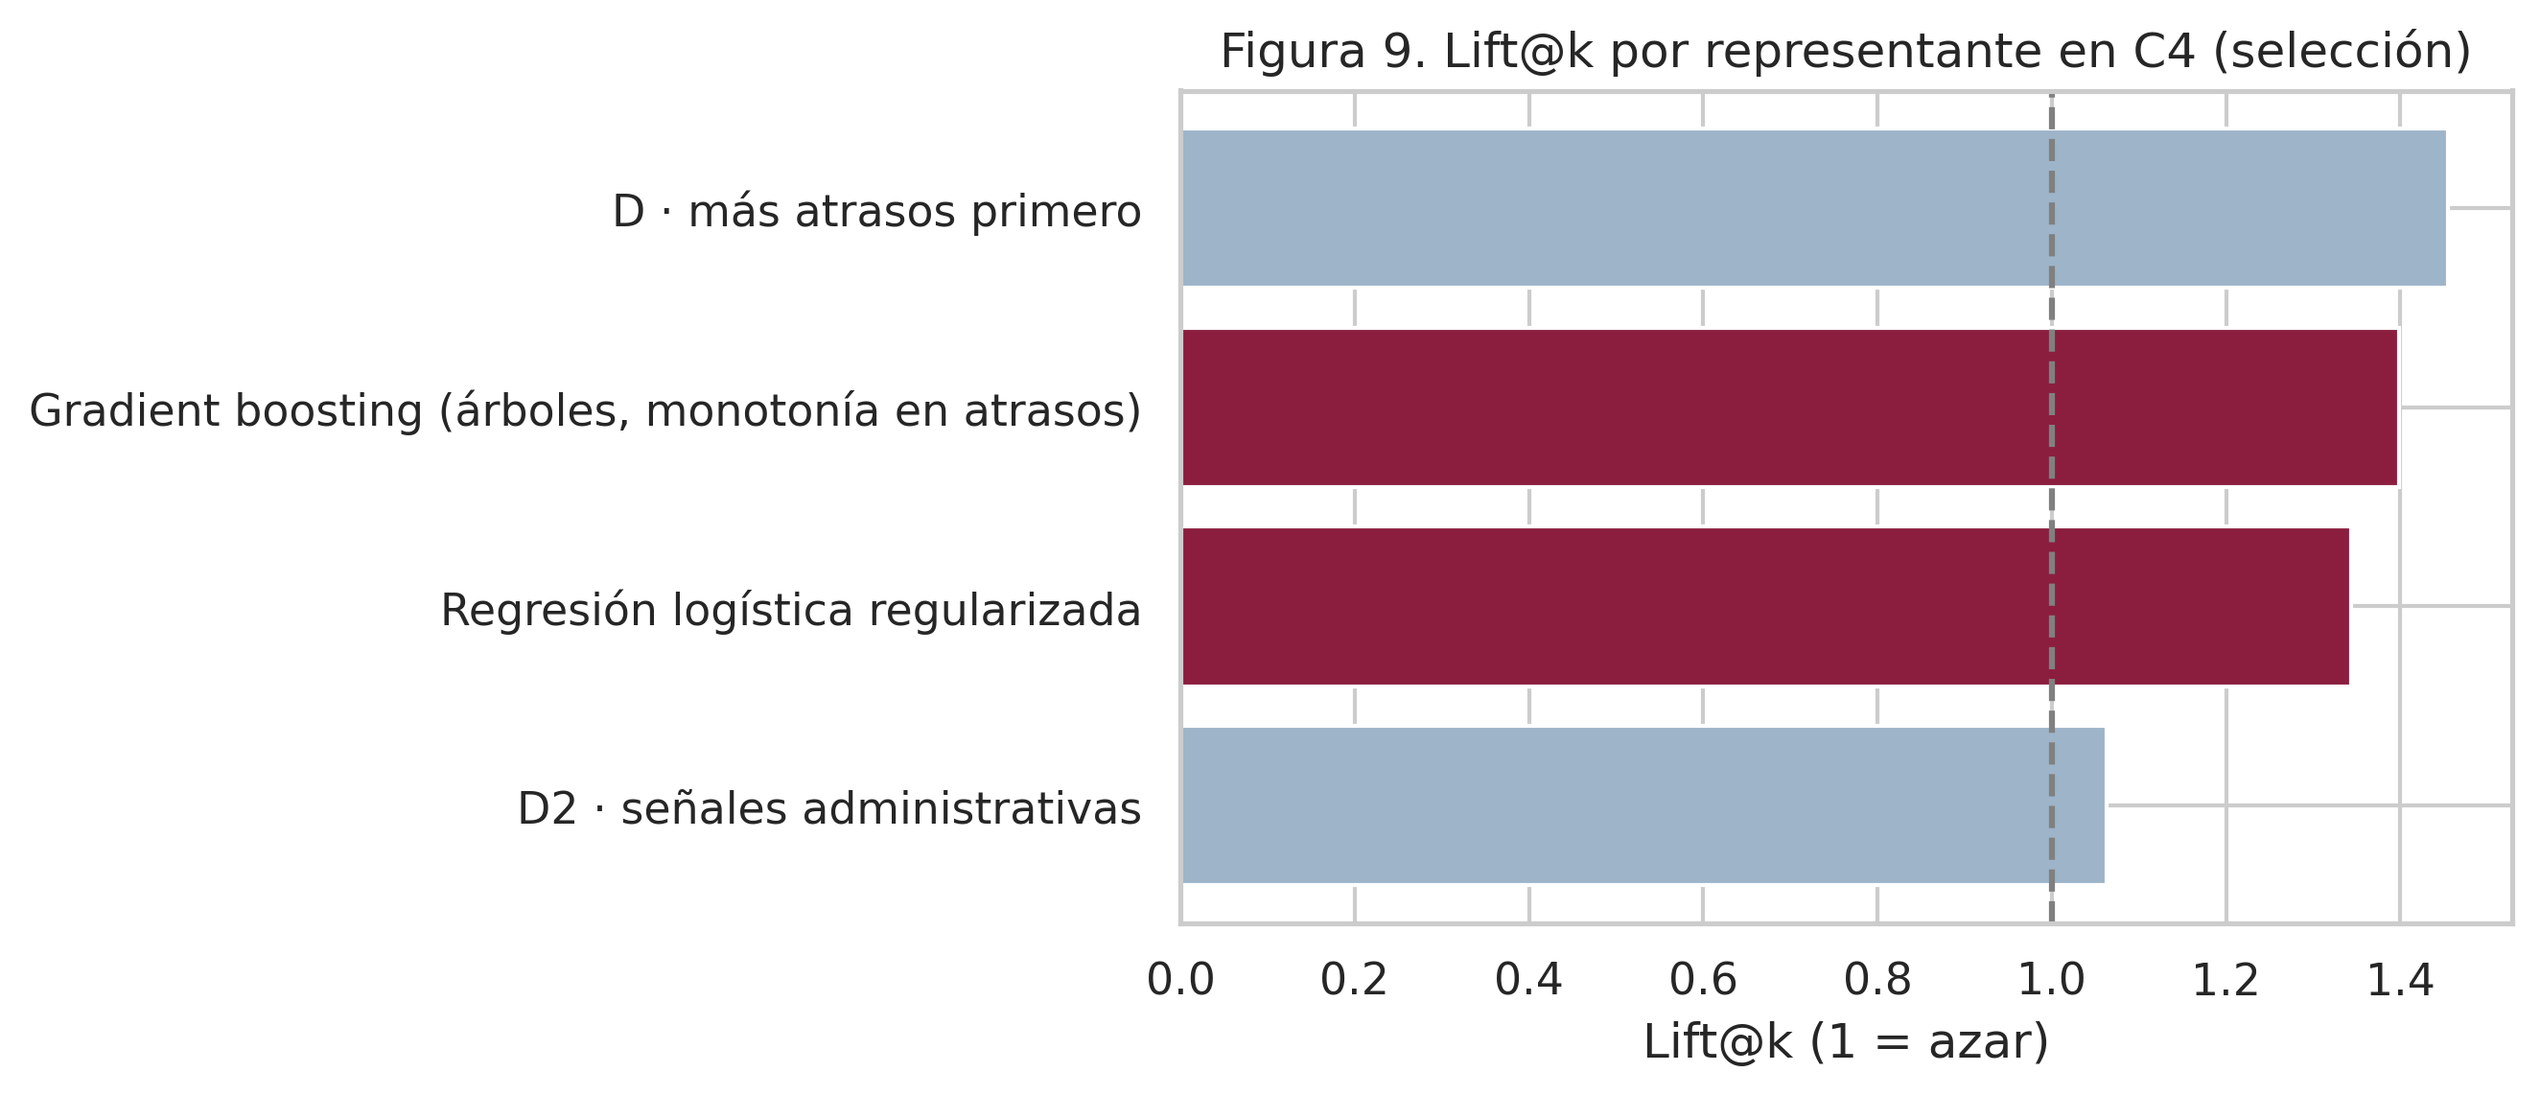
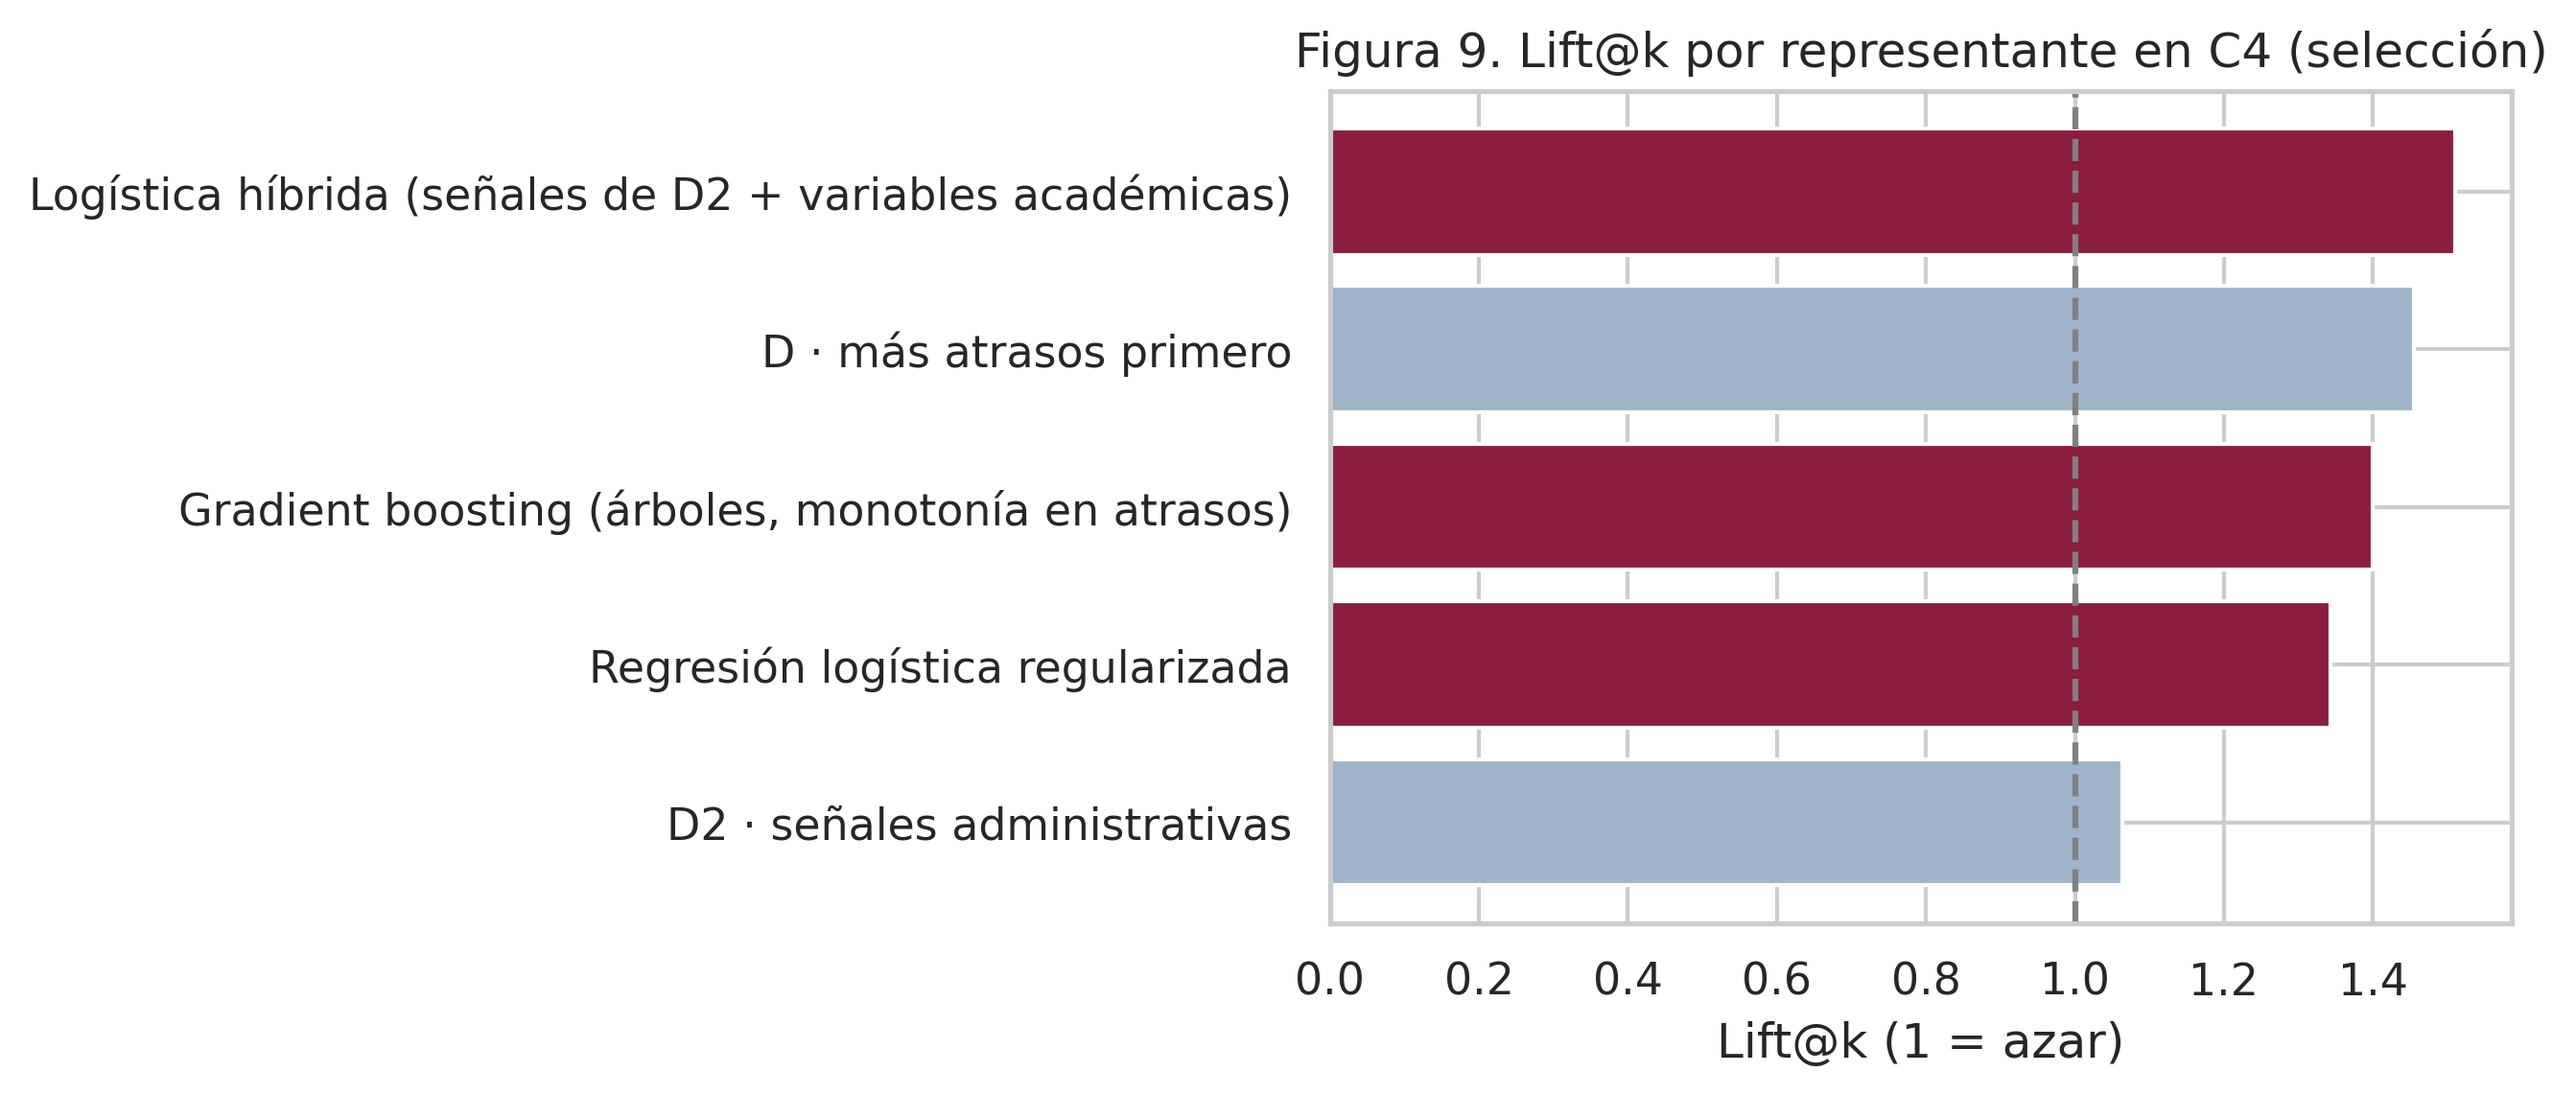
Se agrega modelo hibrido

diff --git a/src/modeling.py b/src/modeling.py
@@ -50,9 +50,54 @@ CONJUNTOS = {
     "completo": (CATEGORICAS, NUMERICAS),
     "reducido": ([c for c in CATEGORICAS if c != "curso"], NUMERICAS),
 }
-TIPOS = ("logistica", "arboles")
+TIPOS = ("logistica", "arboles", "hibrido")
 NOMBRES = {"logistica": "Regresión logística regularizada",
-           "arboles": "Gradient boosting (árboles, monotonía en atrasos)"}
+           "arboles": "Gradient boosting (árboles, monotonía en atrasos)",
+           "hibrido": "Logística híbrida (señales de D2 + variables académicas)"}
+
+# Modelo híbrido (D39, registrado antes de evaluarlo en C4): parte de las señales de la
+# regla D2 y agrega pocas variables académicas, para medir si la IA aporta algo más.
+HIBRIDAS_BINARIAS = ["pago_tardio", "es_nuevo", "reserva_extraordinaria", "conducta_no_A"]
+HIBRIDAS_CATEGORICAS = ["atrasos_tramo", "subnivel"]
+HIBRIDAS_NUMERICAS = ["promedio"]
+
+
+def variables_hibridas(X: pd.DataFrame) -> pd.DataFrame:
+    """Deriva las variables del modelo híbrido a partir de la matriz X estándar."""
+    atrasos = pd.to_numeric(X["atrasos_pension"], errors="coerce").fillna(0)
+    return pd.DataFrame({
+        "pago_tardio": (X["pago_origen"] == "tardio").astype(float),
+        "es_nuevo": (X["pago_origen"] == "nuevo").astype(float),
+        "reserva_extraordinaria": pd.to_numeric(X["reserva_extraordinaria"],
+                                                errors="coerce").fillna(0),
+        "conducta_no_A": (pd.to_numeric(X["conducta"], errors="coerce") < 5).astype(float),
+        "atrasos_tramo": pd.cut(atrasos, [-1, 0, 2, 5, 99],
+                                labels=["0", "1-2", "3-5", "6+"]).astype(str),
+        "subnivel": X["subnivel"].astype(str),
+        "promedio": pd.to_numeric(X["promedio"], errors="coerce"),
+    }, index=X.index)
+
+
+def _nombres_hibridas(_transformador, _entrada):
+    return np.array(HIBRIDAS_BINARIAS + HIBRIDAS_CATEGORICAS + HIBRIDAS_NUMERICAS)
+
+
+def _preprocesador_hibrido() -> Pipeline:
+    from sklearn.compose import ColumnTransformer
+    from sklearn.impute import SimpleImputer
+    from sklearn.preprocessing import FunctionTransformer, OneHotEncoder, StandardScaler
+
+    columnas = ColumnTransformer([
+        ("bin", "passthrough", HIBRIDAS_BINARIAS),
+        ("cat", OneHotEncoder(handle_unknown="ignore", sparse_output=False),
+         HIBRIDAS_CATEGORICAS),
+        ("num", Pipeline([("imputar", SimpleImputer(strategy="median")),
+                          ("escalar", StandardScaler())]), HIBRIDAS_NUMERICAS),
+    ], verbose_feature_names_out=False)
+    return Pipeline([
+        ("derivar", FunctionTransformer(variables_hibridas, feature_names_out=_nombres_hibridas)),
+        ("columnas", columnas),
+    ])
 
 
 # --------------------------------------------------------------------------- #
@@ -77,6 +122,11 @@ def construir_modelo(tipo: str, params: dict, semilla: int) -> Pipeline:
             C=params["C"], l1_ratio=params.get("l1_ratio", 0.0), solver="saga",
             class_weight="balanced" if params.get("balanceado", True) else None,
             max_iter=5000, random_state=semilla, **_penalizacion_elastica())
+    elif tipo == "hibrido":
+        prep = _preprocesador_hibrido()
+        modelo = LogisticRegression(
+            C=params["C"], class_weight="balanced" if params.get("balanceado", True) else None,
+            max_iter=5000, random_state=semilla)
     elif tipo == "arboles":
         prep = construir_preprocesador(escalar=False, categoricas=categoricas,
                                        numericas=numericas).set_output(transform="pandas")
@@ -95,6 +145,10 @@ def construir_modelo(tipo: str, params: dict, semilla: int) -> Pipeline:
 
 
 def _espacio(tipo: str, trial: optuna.Trial) -> dict:
+    if tipo == "hibrido":   # variables fijas: solo se ajusta la regularización
+        return {"balanceado": trial.suggest_categorical("balanceado", [True, False]),
+                "C": trial.suggest_float("C", 1e-3, 10, log=True)}
+    # Mismo orden de sugerencias que en la primera ejecución: resultados reproducibles
     params = {"conjunto": trial.suggest_categorical("conjunto", list(CONJUNTOS)),
               "balanceado": trial.suggest_categorical("balanceado", [True, False])}
     if tipo == "logistica":

diff --git a/tests/test_modeling.py b/tests/test_modeling.py
@@ -40,13 +40,14 @@ def k(dataset, config):
 
 PARAMS = {
     "logistica": {"conjunto": "reducido", "C": 0.1, "l1_ratio": 0.5},
+    "hibrido": {"C": 0.5, "balanceado": False},
     "arboles": {"conjunto": "completo", "learning_rate": 0.05, "max_depth": 3,
                 "max_leaf_nodes": 8, "min_samples_leaf": 30, "l2_regularization": 1.0,
                 "max_iter": 50},
 }
 
 
-@pytest.mark.parametrize("tipo", ["logistica", "arboles"])
+@pytest.mark.parametrize("tipo", ["logistica", "arboles", "hibrido"])
 def test_modelos_entrenan_y_devuelven_probabilidades(dataset, tipo):
     entrenamiento = dataset[dataset["cohorte"].isin(["C2", "C3"])]
     modelo = construir_modelo(tipo, PARAMS[tipo], 42).fit(
@@ -123,3 +124,14 @@ def test_lineas_base_y_proyeccion(dataset):
     tabla = proyeccion(c5, np.full(len(c5), 0.1), 0.1)
     assert (tabla["observadas"] >= 10).all()
     assert np.allclose(tabla["esperadas_modelo"], tabla["esperadas_B1"])
+
+
+def test_hibrido_usa_solo_variables_registradas(dataset):
+    from src.modeling import HIBRIDAS_BINARIAS, HIBRIDAS_NUMERICAS
+    entrenamiento = dataset[dataset["cohorte"].isin(["C2", "C3"])]
+    modelo = construir_modelo("hibrido", PARAMS["hibrido"], 42).fit(
+        construir_matriz_x(entrenamiento), entrenamiento["y_no_matricula"])
+    nombres = list(modelo.named_steps["prep"].get_feature_names_out())
+    assert set(HIBRIDAS_BINARIAS + HIBRIDAS_NUMERICAS) <= set(nombres)
+    assert all(n.split("_")[0] in {"pago", "es", "reserva", "conducta", "atrasos", "subnivel",
+                                   "promedio"} for n in nombres)

diff --git a/docs/planificacion.md b/docs/planificacion.md
@@ -44,6 +44,7 @@
 | D36 | 01-oct-2026 | Fase 2: dos modelos obligatorios (regresión logística elastic-net y gradient boosting con monotonía creciente en atrasos), optimizados con Optuna (TPE, semilla 42) maximizando la PR-AUC en la validación interna temporal (C2 → C3) | Plan aprobado |
 | D37 | 01-oct-2026 | La selección en C4 se hace por Lift@k (desempate: PR-AUC) frente a la mejor regla (D o D2). Si el modelo no la supera, se recomienda la regla para priorizar y el modelo se usa solo para probabilidades y proyección | Equipo |
 | D38 | 01-oct-2026 | Calibración de Platt en C4 sobre el modelo congelado; huella SHA-256 registrada antes de abrir C5; C5 se evalúa una sola vez (`EVALUAR_C5`) | v5, 6.2 |
+| D39 | 01-oct-2026 | **Un único intento adicional, registrado antes de verlo en C4:** logística híbrida con las señales de D2 (pago anterior tardío, reserva extraordinaria y atrasos por tramos 0 / 1-2 / 3-5 / 6+) más es_nuevo, conducta "no A", subnivel y promedio; Optuna solo ajusta C y el balanceo (C2 → C3). Si en C4 no supera a la mejor regla, la priorización final es D2 y no se prueban más variantes | Equipo (resultado C4: RL 1,40 y árboles 1,06 frente a D2 1,93) |
 
 La decisión de C1 con datos reales se guarda en `results/metrics/decision_c1_real.json`, generado por el notebook 02, y se transcribe aquí.
 
